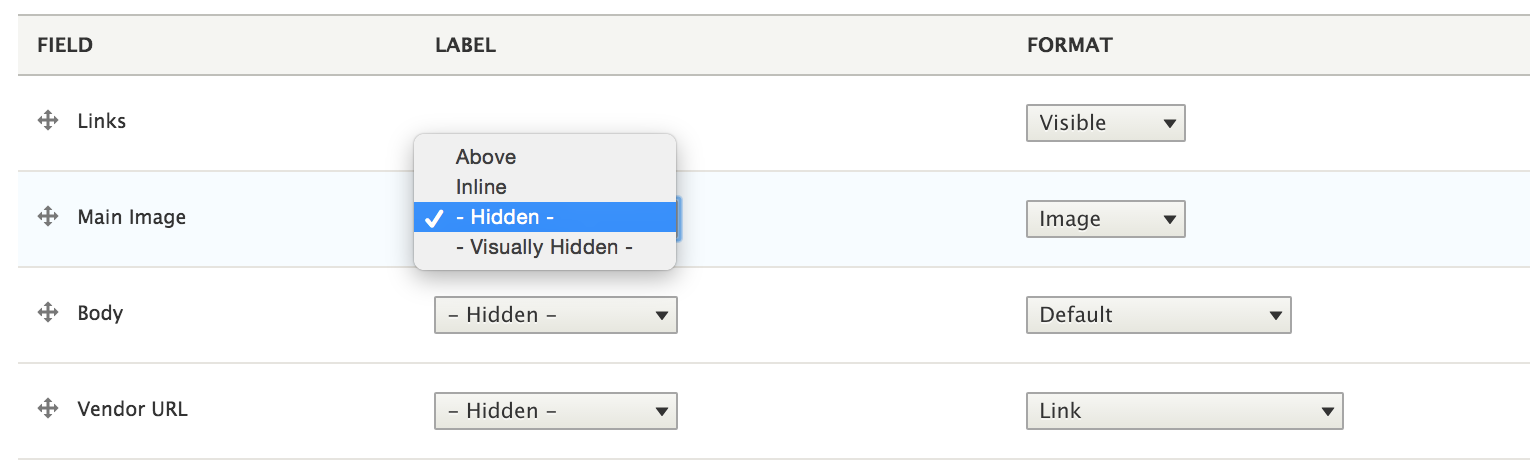
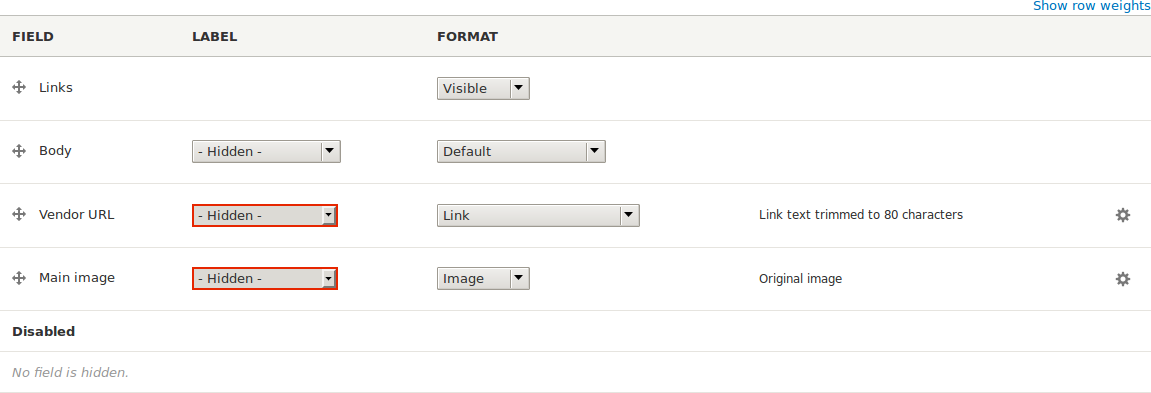
Issue #2539918 by jhodgdon: Automate screenshots for structure-content-display topic

diff --git a/auto_screenshots/src/Tests/UserGuideDemoTestBase.php b/auto_screenshots/src/Tests/UserGuideDemoTestBase.php
@@ -15,7 +15,7 @@ use Drupal\simpletest\WebTestBase;
  *   ' characters, as this will result in an error when generating the screen
  *   shots.
  *
- * The HTML output for eachq screenshot is manipulated using JavaScript, so that
+ * The HTML output for each screenshot is manipulated using JavaScript, so that
  * it only shows a small area of the page, with the rest hidden. The script that
  * captures the images then trims the images automatically down to the relevant
  * area.
@@ -506,6 +506,7 @@ abstract class UserGuideDemoTestBase extends WebTestBase {
     // Add Vendor URL field to Vendor content type.
     $this->drupalGet('admin/structure/types/manage/' . $vendor . '/fields/add-field');
     $vendor_url = $this->demoInput['vendor_field_url_machine_name'];
+    $vendor_url_hyphens = str_replace('_', '-', $vendor_url);
 
     // Fill in the form in the screenshot: choose Link for field type and
     // type in Vendor URL for the Label, triggering the "change" event to set
@@ -530,6 +531,7 @@ abstract class UserGuideDemoTestBase extends WebTestBase {
     // Add Main Image field to Vendor content type.
     $this->drupalGet('admin/structure/types/manage/' . $vendor . '/fields/add-field');
     $main_image = $this->demoInput['vendor_field_image_machine_name'];
+    $main_image_hyphens = str_replace('_', '-', $main_image);
     $this->drupalPostForm(NULL, [
         'new_storage_type' => 'image',
         'label' => $this->demoInput['vendor_field_image_label'],
@@ -759,6 +761,62 @@ abstract class UserGuideDemoTestBase extends WebTestBase {
     // Carrots taxonomy page after adding Recipe content items.
     $this->setUpScreenShot('structure-taxonomy_listingPage_carrots.png', 'onLoad="' . $this->hideArea('#toolbar-administration, header#header, nav.tabs, footer, .feed-icons, .region-sidebar-first, .region-breadcrumb') . $this->setWidth('.block-system-main-block') . $this->removeScrollbars() . $this->setBodyColor() . '"');
 
+
+    // Topic: structure-content-display - Changing Content Display.
+
+    $this->drupalGet('admin/structure/types');
+    // Content types list on admin/structure/types, with operations dropdown
+    // for Vendor content type expanded.
+    $this->setUpScreenShot('structure-content-display_manage_display.png', 'onLoad="jQuery(&quot;a[href*=\'' . $vendor . '/delete\']&quot;).parents(\'.dropbutton-wrapper\').addClass(\'open\'); ' . $this->hideArea('#toolbar-administration') . '"');
+
+    // Set the labels for main image and vendor URL to hidden.
+    $this->drupalGet('admin/structure/types/manage/' . $vendor . '/display');
+    $this->drupalPostForm(NULL, [
+        'fields[field_' . $main_image . '][label]' => 'hidden',
+        'fields[field_' . $vendor_url . '][label]' => 'hidden',
+      ], $this->callT('Save'));
+    $this->drupalGet('admin/structure/types/manage/' . $vendor . '/display');
+
+    // Manage display page for Vendor content type
+    // (admin/structure/types/manage/vendor/display), with labels for Main
+    // Image and Vendor URL hidden, and their select lists outlined in red.
+    $this->setUpScreenShot('structure-content-display_main_image_hidden.png', 'onLoad="' . $this->hideArea('#toolbar-administration, header, .region-pre-content, .region-breadcrumb, .help, #edit-modes, #edit-actions') . $this->removeScrollbars() . $this->addBorder('#edit-fields-field-' . $main_image_hyphens . '-label, #edit-fields-field-' . $vendor_url_hyphens . '-label') . '"');
+
+    // Use Ajax to open the Edit area for the Vendor URL field.
+    $this->drupalPostAjaxForm(NULL, [], 'field_' . $vendor_url . '_settings_edit');
+    // Vendor URL settings form, with trim length cleared, and open link in
+    // new window checked.
+    $this->setUpScreenShot('structure-content-display_trim_length.png', 'onLoad="' . $this->removeScrollbars() . $this->showOnly('.field-plugin-settings-edit-form') . $this->setWidth('table', 400) . 'jQuery(\'.form-item-fields-field-' . $vendor_url_hyphens . '-settings-edit-form-settings-trim-length input\').val(\'\'); jQuery(\'.form-item-fields-field-' . $vendor_url_hyphens . '-settings-edit-form-settings-target input\').attr(\'checked\', \'checked\'); ' . '"');
+
+    // Set the trim length to zero and set links to open in a new window.
+    $this->drupalPostForm(NULL, [
+        'fields[field_vendor_url][settings_edit_form][settings][trim_length]' => '',
+        'fields[field_vendor_url][settings_edit_form][settings][target]' => '_blank',
+      ], $this->callT('Save'));
+
+    $this->drupalGet('admin/structure/types/manage/' . $vendor . '/display');
+    // Manage display page for Vendor content type, with order changed.
+    $this->setUpScreenShot('structure-content-display_change_order.png', 'onLoad="' . $this->hideArea('#toolbar-administration, header, .region-pre-content, .region-breadcrumb, .help, .tabledrag-toggle-weight-wrapper, #edit-modes, #edit-actions') . 'jQuery(\'table\').before(\'<div style=&quot;display: block; &quot; class=&quot;tabledrag-changed-warning messages messages--warning&quot; role=&quot;alert&quot;><abbr class=&quot;warning tabledrag-changed&quot;>*</abbr>' . $this->callT('You have unsaved changes.') . '</div>\');' . 'var img = jQuery(\'table tbody tr#field-' . $main_image_hyphens . '\').detach(); var bod = jQuery(\'table tbody tr#body\').detach(); var vurl = jQuery(\'table tbody tr#field-' . $vendor_url_hyphens . '\').detach(); jQuery(\'table tbody\').prepend(vurl).prepend(bod).prepend(img); jQuery(\'table tbody tr:first\').toggleClass(\'drag-previous\');' . '"');
+
+    // Submit the changed order in the form.
+    $this->drupalPostForm(NULL, [
+        'fields[field_' . $main_image . '][weight]' => 10,
+        'fields[body][weight]' => 20,
+        'fields[field_' . $vendor_url . '][weight]' => 30,
+        'fields[links][weight]' => 40,
+      ], $this->callT('Save'));
+
+    // Make similar changes for the Recipe content type. No screenshots.
+    $this->drupalGet('admin/structure/types/manage/' . $recipe . '/display');
+    $this->drupalPostForm(NULL, [
+        'fields[field_' . $main_image . '][weight]' => 10,
+        'fields[field_' . $main_image . '][label]' => 'hidden',
+        'fields[body][weight]' => 20,
+        'fields[field_' . $ingredients . '][weight]' => 30,
+        'fields[field_' . $submitted_by . '][weight]' => 40,
+        'fields[field_' . $submitted_by . '][label]' => 'inline',
+        'fields[links][weight]' => 50,
+      ], $this->callT('Save'));
 
     // @todo Add more topics here.
 
